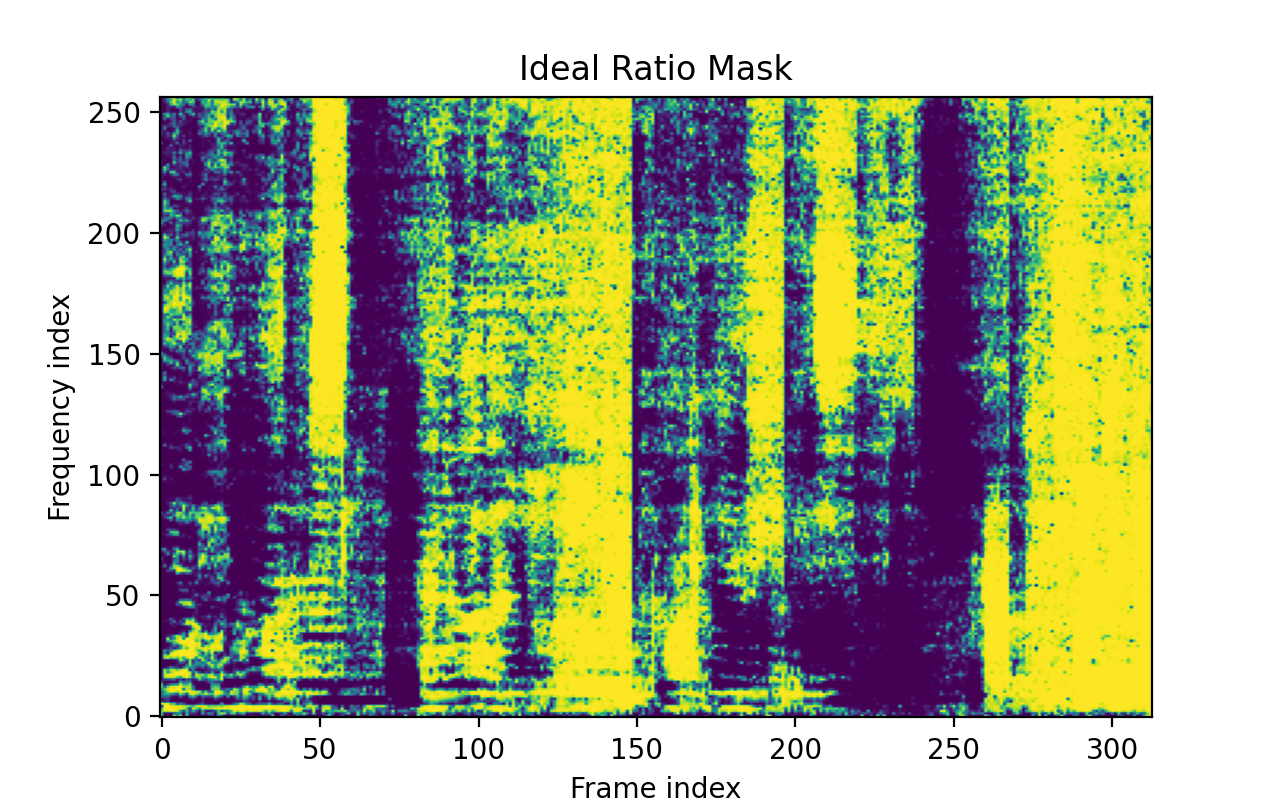
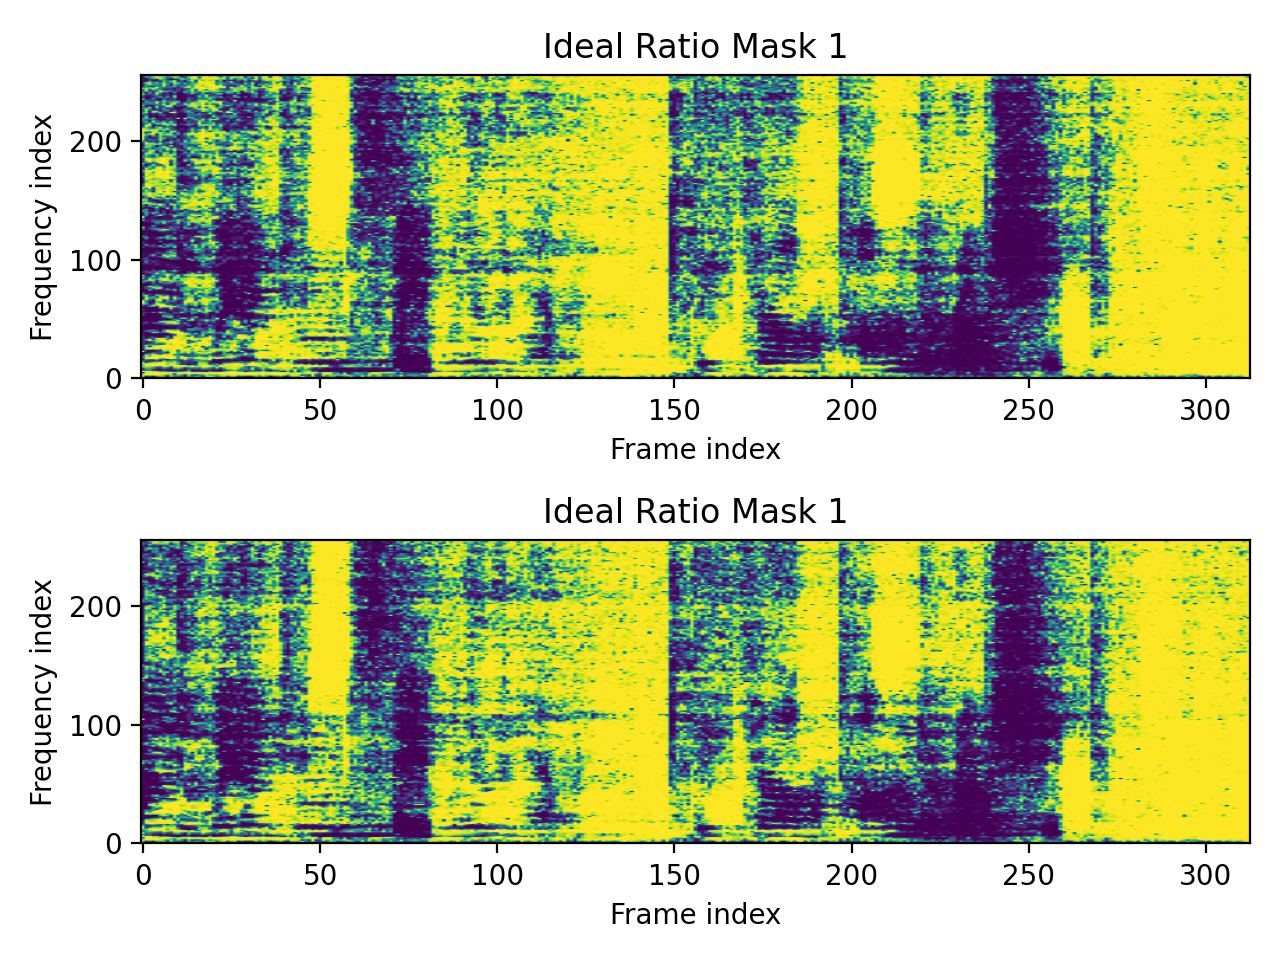
Update IRM images

diff --git a/examples/ideal_ratio_mask_estimation.py b/examples/ideal_ratio_mask_estimation.py
@@ -37,6 +37,9 @@ Ys, Ms = augmented_train[1]
 
 Y1 = torch.squeeze(Ys[0,:,:,:], dim=0)
 Y2 = torch.squeeze(Ys[1,:,:,:], dim=0)
+M1 = torch.squeeze(Ms[0,:,:], dim=0)
+M2 = torch.squeeze(Ms[1,:,:], dim=0)
+
 
 plt.subplot(2,1,1)
 plt.imshow(np.log(Y1[:,:,0]**2 + Y1[:,:,1]**2 + 1E-10), aspect='auto')
@@ -53,9 +56,17 @@ plt.ylabel('Frequency index')
 plt.tight_layout()
 plt.show()
 
-plt.imshow(Ms, aspect='auto')
+plt.subplot(2,1,1)
+plt.imshow(M1, aspect='auto')
 plt.gca().invert_yaxis()
-plt.title('Ideal Ratio Mask')
+plt.title('Ideal Ratio Mask 1')
 plt.xlabel('Frame index')
 plt.ylabel('Frequency index')
+plt.subplot(2,1,2)
+plt.imshow(M2, aspect='auto')
+plt.gca().invert_yaxis()
+plt.title('Ideal Ratio Mask 1')
+plt.xlabel('Frame index')
+plt.ylabel('Frequency index')
+plt.tight_layout()
 plt.show()

diff --git a/augment.py b/augment.py
@@ -136,7 +136,7 @@ class IRM:
 
 		M1s = (X1s[0,:,:,0] ** 2 + X1s[0,:,:,1] ** 2) / (X1s[0,:,:,0] ** 2 + X1s[0,:,:,1] ** 2 + X2s[0,:,:,0] ** 2 + X2s[0,:,:,1] ** 2)
 		M2s = (X1s[1,:,:,0] ** 2 + X1s[1,:,:,1] ** 2) / (X1s[1,:,:,0] ** 2 + X1s[1,:,:,1] ** 2 + X2s[1,:,:,0] ** 2 + X2s[1,:,:,1] ** 2)
-		Ms = M1s * M2s
+		Ms = torch.cat((torch.unsqueeze(M1s, dim=0), torch.unsqueeze(M2s, dim=0)), 0)
 
 		return Ys, Ms
 
